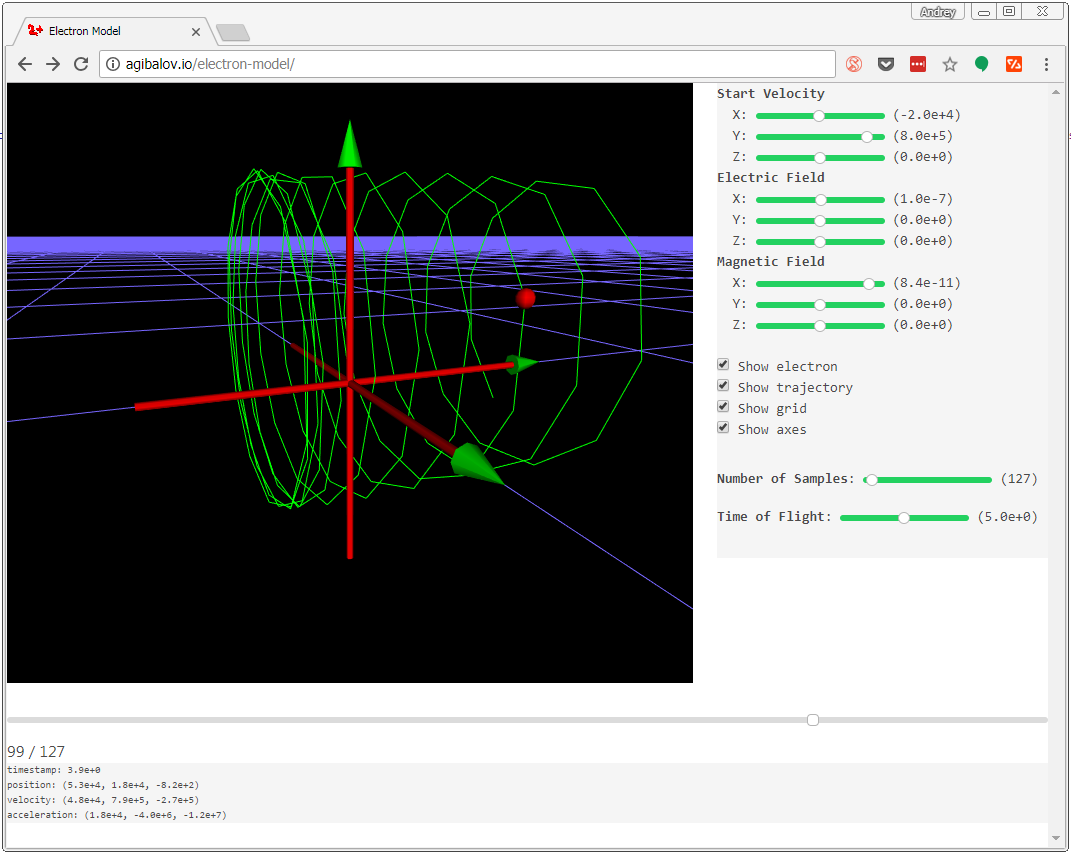
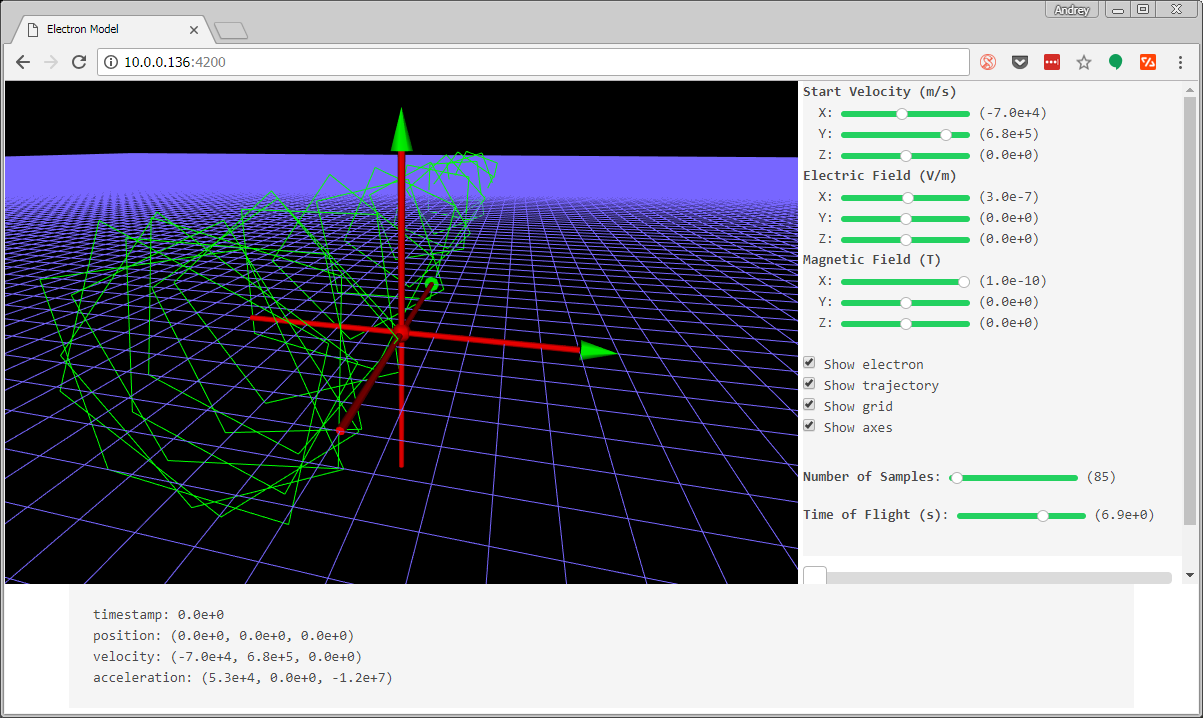
Added the simulation player

diff --git a/src/app/app.component.ts b/src/app/app.component.ts
@@ -8,7 +8,7 @@ import {LorentzService, Sample} from './lorentz.service';
   template: `
     <div class="root-container">
       <div class="top-container">
-        <canvas class="scene-view" 
+        <canvas class="scene-view"
                 manipulator
                 (manipulationBegin)="cameraDriver.handleManipulationBegin(three.camera)"
                 (manipulationRotationUpdate)="cameraDriver.handleRotationUpdate($event)"
@@ -20,15 +20,15 @@ import {LorentzService, Sample} from './lorentz.service';
           <scene>
             <light [position]="cameraDriver.cameraPosition" [target]="cameraDriver.cameraTarget"></light>
             <electron *ngIf="showElectron" [position]="currentSample.position.clone().multiplyScalar(1e-5)"></electron>
-            <trajectory *ngIf="showTrajectory" [samples]="lorentzService.trajectory"></trajectory>
+            <trajectory *ngIf="showTrajectory" [samples]="lorentzService.samples"></trajectory>
             <grid *ngIf="showGrid"></grid>
             <axes *ngIf="showAxes"></axes>
           </scene>
         </canvas>
         <div class="right-panel">
-          <vector-editor name="Start Velocity" [range]="1e6" [(ngModel)]="lorentzService.startVelocity"></vector-editor>
-          <vector-editor name="Electric Field" [range]="1e-5" [(ngModel)]="lorentzService.electricField"></vector-editor>
-          <vector-editor name="Magnetic Field" [range]="1e-10" [(ngModel)]="lorentzService.magneticField"></vector-editor>
+          <vector-editor name="Start Velocity (m/s)" [range]="1e6" [(ngModel)]="lorentzService.startVelocity"></vector-editor>
+          <vector-editor name="Electric Field (V/m)" [range]="1e-5" [(ngModel)]="lorentzService.electricField"></vector-editor>
+          <vector-editor name="Magnetic Field (T)" [range]="1e-10" [(ngModel)]="lorentzService.magneticField"></vector-editor>
 
           <pre class="checkboxes">
 
@@ -40,26 +40,21 @@ import {LorentzService, Sample} from './lorentz.service';
 <span class="has-text-weight-bold">Number of Samples</span>: <input type="range" class="slider is-small is-circle is-success"
                                                                     [min]="10" [max]="5000" [step]="1"
                                                                     [(ngModel)]="lorentzService.numberOfSamples"> ({{lorentzService.numberOfSamples}})
-<span class="has-text-weight-bold">Time of Flight</span>: <input type="range" class="slider is-small is-circle is-success"
+<span class="has-text-weight-bold">Time of Flight (s)</span>: <input type="range" class="slider is-small is-circle is-success"
                                                                  [min]="0.1" [max]="10" [step]="1e-3"
                                                                  [(ngModel)]="lorentzService.timeOfFlight"> ({{lorentzService.timeOfFlight | exponential}})
           </pre>
+          <app-player [numberOfSamples]="lorentzService.numberOfSamples"
+                      [(currentSampleIndex)]="currentSampleIndex"></app-player>
         </div>
       </div>
       <div class="bottom-container">
         <div class="container is-fluid">
-          <input type="range" class="slider is-small is-fullwidth"
-                 [min]="0"
-                 [max]="lorentzService.trajectory.length - 1"
-                 [step]="1"
-                 [(ngModel)]="currentSampleIndex">
-          <p>{{currentSampleIndex + 1}} / {{lorentzService.trajectory.length}}</p>
-
-          <pre class="debug">
+          <pre>
 timestamp: {{currentSample.timestamp | exponential}}
-position: ({{currentSample.position.x | exponential}}, {{currentSample.position.y | exponential}}, {{currentSample.position.z | exponential}})
-velocity: ({{currentSample.velocity.x | exponential}}, {{currentSample.velocity.y | exponential}}, {{currentSample.velocity.z | exponential}})
-acceleration: ({{currentSample.acceleration.x | exponential}}, {{currentSample.acceleration.y | exponential}}, {{currentSample.acceleration.z | exponential}})</pre>
+position: {{currentSample.position | vector}}
+velocity: {{currentSample.velocity | vector}}
+acceleration: {{currentSample.acceleration | vector}}</pre>
         </div>
       </div>
     </div>
@@ -97,12 +92,6 @@ acceleration: ({{currentSample.acceleration.x | exponential}}, {{currentSample.a
       padding: 0;
       margin: 0;
     }
-    
-    .debug {
-      padding: 0;
-      margin: 0;
-      font-size: 10px;
-    }
   `]
   // tslint:enable:no-trailing-whitespace max-line-length
 })
@@ -117,15 +106,15 @@ export class AppComponent {
 
   // TODO: how do I get rid of duplicate Math.min() in get/set currentSampleIndex?
   get currentSampleIndex() {
-    this._currentSampleIndex = Math.min(this._currentSampleIndex, this.lorentzService.trajectory.length - 1);
+    this._currentSampleIndex = Math.min(this._currentSampleIndex, this.lorentzService.samples.length - 1);
     return this._currentSampleIndex;
   }
 
   set currentSampleIndex(value: number) {
-    this._currentSampleIndex = Math.min(value, this.lorentzService.trajectory.length - 1);
+    this._currentSampleIndex = Math.min(value, this.lorentzService.samples.length - 1);
   }
 
   get currentSample(): Sample {
-    return this.lorentzService.trajectory[this.currentSampleIndex];
+    return this.lorentzService.samples[this.currentSampleIndex];
   }
 }

diff --git a/src/app/player.component.ts b/src/app/player.component.ts
@@ -1,0 +1,128 @@
+import {Component, EventEmitter, Input, Output} from '@angular/core';
+import {Subscription, timer} from 'rxjs';
+
+@Component({
+  selector: 'app-player',
+  template: `
+    <input type="range" class="slider is-large is-fullwidth"
+           [min]="0"
+           [max]="numberOfSamples - 1"
+           [step]="1"
+           [(ngModel)]="currentSampleIndex">
+
+    <div class="buttons">
+      <button type="button" class="button is-small" (click)="jumpToFirstSample()">
+        <span class="icon is-small">
+          <i class="fas fa-fast-backward"></i>
+        </span>
+      </button>
+      <button type="button" class="button is-small" (click)="jumpOneSampleBack()">
+        <span class="icon is-small">
+          <i class="fas fa-step-backward"></i>
+        </span>
+      </button>
+      <button type="button" class="button is-small" (click)="play()" *ngIf="subscription == null">
+        <span class="icon is-small">
+          <i class="fas fa-play"></i>
+        </span>
+      </button>
+      <button type="button" class="button is-small" (click)="pause()" *ngIf="subscription != null">
+        <span class="icon is-small">
+          <i class="fas fa-pause"></i>
+        </span>
+      </button>
+      <button type="button" class="button is-small" (click)="jumpOneSampleForward()">
+        <span class="icon is-small">
+          <i class="fas fa-step-forward"></i>
+        </span>
+      </button>
+      <button type="button" class="button is-small" (click)="jumpToLastSample()">
+        <span class="icon is-small">
+          <i class="fas fa-fast-forward"></i>
+        </span>
+      </button>
+      <span>Sample {{currentSampleIndex + 1}} of {{numberOfSamples}}</span>
+    </div>
+  `,
+  styles: [`
+    input {
+      padding-right: 10px;
+    }
+  `]
+})
+export class PlayerComponent {
+  private static readonly DESIRED_PLAYBACK_TIME = 3000;
+  private _numberOfSamples: number;
+  private _currentSampleIndex: number;
+  subscription: Subscription;
+
+  @Output() currentSampleIndexChange = new EventEmitter<number>();
+
+  @Input() set numberOfSamples(value: number) {
+    if (this._numberOfSamples !== value) {
+      this._numberOfSamples = value;
+      if (this.subscription != null) {
+        this.subscription.unsubscribe();
+        this.subscription = null;
+        this.play();
+      }
+    }
+  }
+
+  get numberOfSamples() {
+    return this._numberOfSamples;
+  }
+
+  @Input() set currentSampleIndex(value: number) {
+    if (this._currentSampleIndex !== value) {
+      this._currentSampleIndex = value;
+      this.currentSampleIndexChange.emit(value);
+    }
+  }
+
+  get currentSampleIndex() {
+    return this._currentSampleIndex;
+  }
+
+  play() {
+    if (this.currentSampleIndex === this.numberOfSamples - 1) {
+      this.currentSampleIndex = 0;
+    }
+
+    const timePerSample = PlayerComponent.DESIRED_PLAYBACK_TIME / this.numberOfSamples;
+    this.subscription = timer(0, timePerSample)
+      .subscribe(t => {
+        if (this.currentSampleIndex === this.numberOfSamples - 1) {
+          this.subscription.unsubscribe();
+          this.subscription = null;
+          return;
+        }
+        ++this.currentSampleIndex;
+      });
+  }
+
+  pause() {
+    this.subscription.unsubscribe();
+    this.subscription = null;
+  }
+
+  jumpToFirstSample() {
+    this.currentSampleIndex = 0;
+  }
+
+  jumpToLastSample() {
+    this.currentSampleIndex = this.numberOfSamples - 1;
+  }
+
+  jumpOneSampleBack() {
+    if (this.currentSampleIndex > 0) {
+      --this.currentSampleIndex;
+    }
+  }
+
+  jumpOneSampleForward() {
+    if (this.currentSampleIndex < this.numberOfSamples - 1) {
+      ++this.currentSampleIndex;
+    }
+  }
+}

diff --git a/src/app/app.module.ts b/src/app/app.module.ts
@@ -13,6 +13,8 @@ import {VectorEditorComponent} from './vector-editor.component';
 import {TrajectoryDirective} from './trajectory.directive';
 import {ExponentialPipe} from './exponential.pipe';
 import {AxesDirective} from './axes.directive';
+import {PlayerComponent} from './player.component';
+import {VectorPipe} from './vector.pipe';
 
 @NgModule({
   declarations: [
@@ -27,7 +29,9 @@ import {AxesDirective} from './axes.directive';
     VectorEditorComponent,
     TrajectoryDirective,
     ExponentialPipe,
-    AxesDirective
+    VectorPipe,
+    AxesDirective,
+    PlayerComponent
   ],
   imports: [
     BrowserModule,

diff --git a/src/app/grid.directive.ts b/src/app/grid.directive.ts
@@ -6,6 +6,7 @@ import {Directive, OnDestroy, OnInit} from '@angular/core';
   selector: 'grid'
 })
 export class GridDirective implements OnInit, OnDestroy {
+  private static readonly SCALE = 1e-1;
   private line: Line;
 
   constructor(private scene: Scene) {
@@ -21,6 +22,7 @@ export class GridDirective implements OnInit, OnDestroy {
       color: 0x7766ff
     });
     this.line = new Line(geometry, material);
+    this.line.scale.set(GridDirective.SCALE, GridDirective.SCALE, GridDirective.SCALE);
   }
 
   ngOnInit(): void {

diff --git a/src/app/vector.pipe.ts b/src/app/vector.pipe.ts
@@ -1,0 +1,17 @@
+import {Pipe, PipeTransform} from '@angular/core';
+import {Vector3} from 'three';
+
+@Pipe({
+  name: 'vector'
+})
+export class VectorPipe implements PipeTransform {
+  private static readonly DIGITS = 1;
+
+  transform(v: Vector3): string {
+    if (v == null) {
+      return 'null';
+    }
+
+    return `(${v.x.toExponential(VectorPipe.DIGITS)}, ${v.y.toExponential(VectorPipe.DIGITS)}, ${v.z.toExponential(VectorPipe.DIGITS)})`;
+  }
+}

diff --git a/src/index.html b/src/index.html
@@ -7,6 +7,7 @@
 
   <meta name="viewport" content="width=device-width, initial-scale=1">
   <link rel="icon" type="image/x-icon" href="favicon.ico">
+  <link rel="stylesheet" href="https://use.fontawesome.com/releases/v5.0.13/css/all.css" integrity="sha384-DNOHZ68U8hZfKXOrtjWvjxusGo9WQnrNx2sqG0tfsghAvtVlRW3tvkXWZh58N9jp" crossorigin="anonymous">
 </head>
 <body>
   <app-root></app-root>

diff --git a/src/app/lorentz.service.ts b/src/app/lorentz.service.ts
@@ -80,7 +80,7 @@ export class LorentzService {
     return this._timeOfFlight;
   }
 
-  get trajectory(): Sample[] {
+  get samples(): Sample[] {
     if (this._shouldRecalculate) {
       this._shouldRecalculate = false;
 
